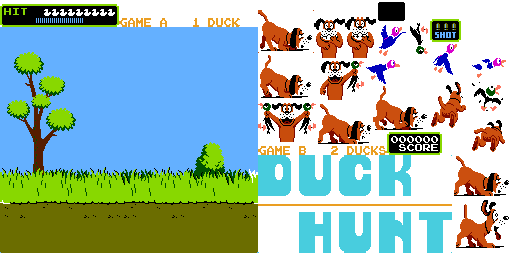
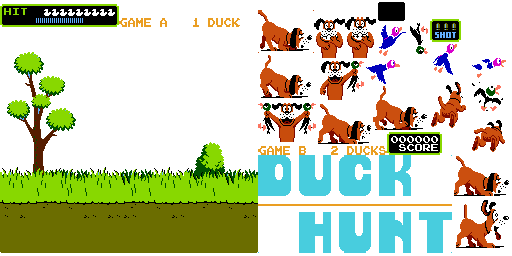
dog working

Changed region(s): [[0.0, 0.0938, 0.5312, 0.6875], [0.0, 0.7812, 0.0312, 0.8125]]

diff --git a/DuckHuntPrototipe/src/com/deeep/duckhuntprototipe/classes/WorldRenderer.java b/DuckHuntPrototipe/src/com/deeep/duckhuntprototipe/classes/WorldRenderer.java
@@ -29,14 +29,20 @@ public class WorldRenderer {
 		cam.unproject(world.touchPoint.set(Gdx.input.getX(), Gdx.input.getY(),
 				0));
 		batch.setProjectionMatrix(cam.combined);
-		renderBackground();
-		renderObjects();
-		// renderFields();
-		// renderDog();
+		batch.enableBlending();
+
+		if (world.dog.state == Dog.DOG_STATE_WALKING
+				|| world.dog.state == Dog.DOG_STATE_FOUND
+				|| world.dog.state == Dog.DOG_STATE_JUMPING) {
+			renderBackground();
+			renderObjects();
+		} else {
+			renderObjects();
+			renderBackground();
+		}
 	}
 
 	private void renderBackground() {
-		batch.disableBlending();
 		batch.begin();
 		batch.draw(Assets.backgroundRegion, cam.position.x - FRUSTUM_WIDTH / 2,
 				cam.position.y - FRUSTUM_HEIGHT / 2, FRUSTUM_WIDTH,
@@ -45,7 +51,6 @@ public class WorldRenderer {
 	}
 
 	private void renderObjects() {
-		batch.enableBlending();
 		batch.begin();
 		renderDog();
 		renderDucks();
@@ -53,8 +58,9 @@ public class WorldRenderer {
 	}
 
 	private void renderDog() {
-		batch.draw(world.dog.texture, world.dog.position.x,
-				world.dog.position.y, Dog.DOG_WIDTH, Dog.DOG_HEIGHT);
+		if (world.dog.texture != null)
+			batch.draw(world.dog.texture, world.dog.position.x,
+					world.dog.position.y, Dog.DOG_WIDTH, Dog.DOG_HEIGHT);
 	}
 
 	private void renderDucks() {

diff --git a/DuckHuntPrototipe/src/com/deeep/duckhuntprototipe/classes/World.java b/DuckHuntPrototipe/src/com/deeep/duckhuntprototipe/classes/World.java
@@ -42,7 +42,7 @@ public class World {
 		this.gameMode = gameMode;
 		rand = new Random();
 		this.touchPoint = new Vector3();
-		dog = new Dog(0, 3);
+		dog = new Dog(0, 1.9f);
 		generateLevel();
 
 		this.state = WORLD_STATE_ROUND_START;
@@ -62,9 +62,10 @@ public class World {
 	}
 
 	public void update(float deltaTime) {
-		if (state == WORLD_STATE_ROUND_START) {
+		if (state == WORLD_STATE_ROUND_START){
 			updateDog(deltaTime);
-		} else {
+			checkDogState();
+		}else {
 			updateDucks(deltaTime);
 			checkCollisions();
 		}
@@ -72,6 +73,11 @@ public class World {
 
 	private void updateDog(float deltaTime) {
 		dog.update(deltaTime);
+	}
+
+	private void checkDogState() {
+		if(dog.state == Dog.DOG_STATE_HIDDEN)
+			state = WORLD_STATE_RUNNING;
 	}
 
 	private void updateDucks(float deltaTime) {

diff --git a/DuckHuntPrototipe/src/com/deeep/duckhuntprototipe/entities/Dog.java b/DuckHuntPrototipe/src/com/deeep/duckhuntprototipe/entities/Dog.java
@@ -58,7 +58,7 @@ public class Dog extends GameObject {
 		case DOG_STATE_JUMPING:
 			if (frames == -1)
 				Assets.bark.play();
-			
+
 			frames++;
 			if (frames > 15) {
 				if (bark < 2) {
@@ -73,8 +73,8 @@ public class Dog extends GameObject {
 			else {
 				dogPositiony = 0;
 				position.add(deltaTime, deltaTime * gravityY);
-				gravityY += -1; 
-				if (position.y == 0)
+				gravityY += -1;
+				if (position.y < 3)
 					state = DOG_STATE_HIDDEN;
 			}
 			texture = Assets.dogJumping.getKeyFrame(stateTime);
@@ -86,7 +86,7 @@ public class Dog extends GameObject {
 			texture = Assets.dogLaughing.getKeyFrame(stateTime, true);
 			break;
 		case DOG_STATE_HIDDEN:
-			/***/
+			texture = null;
 			break;
 		}
 

diff --git a/DuckHuntPrototipe/src/com/deeep/duckhuntprototipe/screens/GameScreen.java b/DuckHuntPrototipe/src/com/deeep/duckhuntprototipe/screens/GameScreen.java
@@ -101,6 +101,7 @@ public class GameScreen implements Screen {
 
 	public void draw(float deltaTime) {
 		GLCommon gl = Gdx.gl;
+		gl.glClearColor(0.392156f, 0.686274f, 1, 1);
 		gl.glClear(GL10.GL_COLOR_BUFFER_BIT);
 
 		renderer.render();
